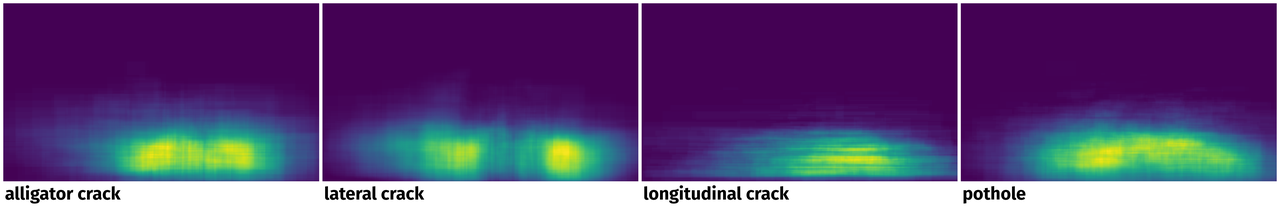
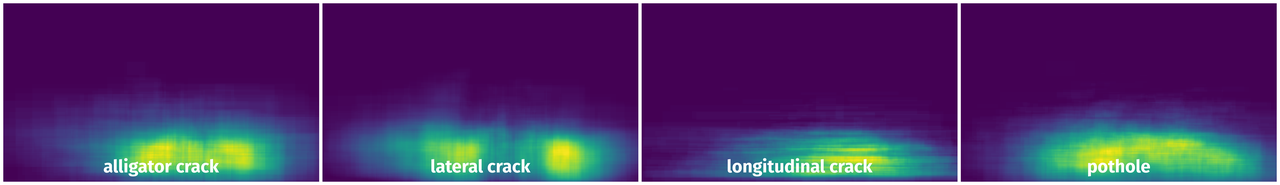
heatmaps

diff --git a/src/options.py b/src/options.py
@@ -63,7 +63,7 @@ CLASSES_PREVIEW_PADDINGS: dict = {
 ###############################################################
 ### * Set up visualization params for ClassesHeatmaps class ###
 # args for "to_image" method
-DRAW_STYLE: str = "outside_black"  # "inside_white" or "outside_black"
+DRAW_STYLE: str = None  # "inside_white" or "outside_black"
 HEATMAP_ROWS: int = 1
 HEATMAP_COLS: int = 4
 HEATMAP_GRID_SPACING: int = None
